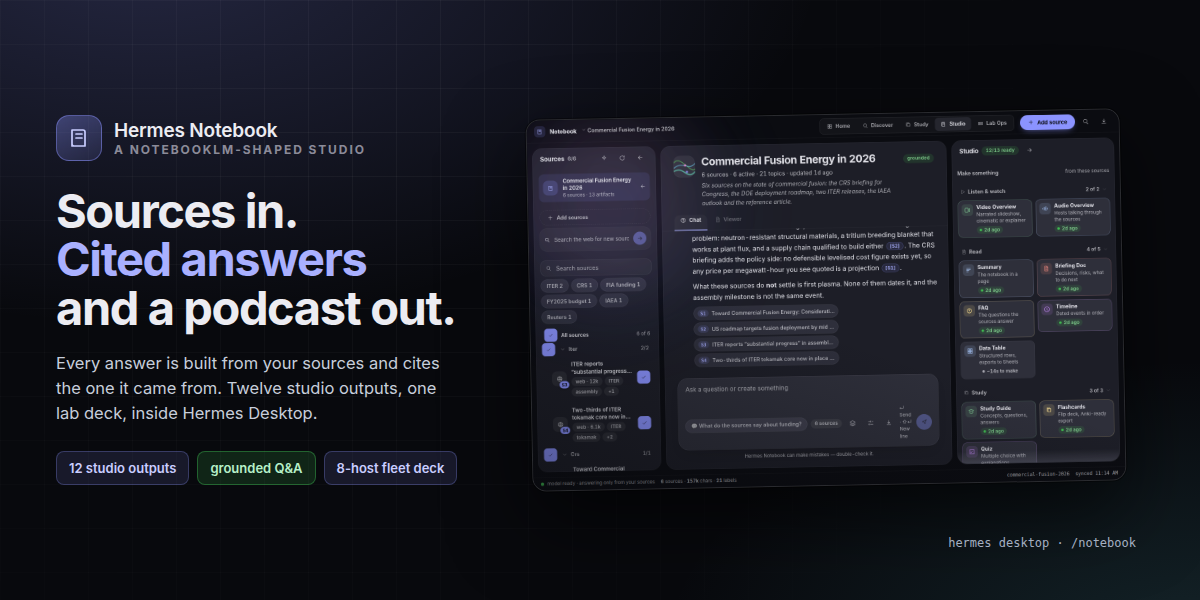
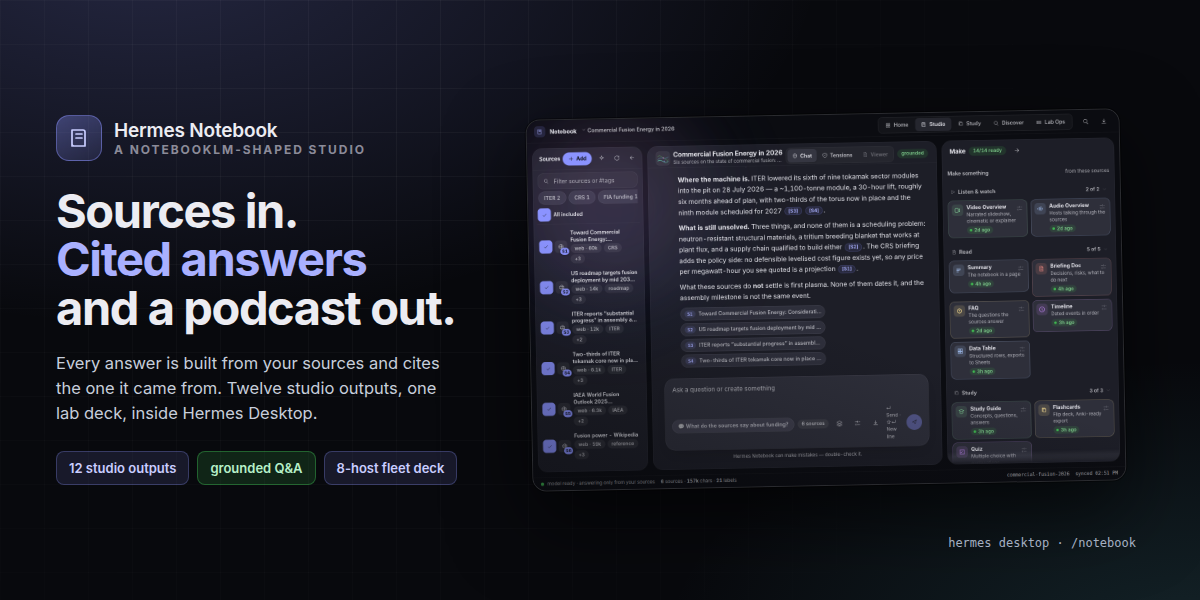
ui: the make bench ends in a fade instead of a sliced card, and the docs are reshot
The last card in the Make panel was sliced by the panel's bottom edge, which
reads as a rendering fault rather than "scroll for more". The body now carries a
24px bottom gutter and an 18px mask fade: while the list continues the fade says
there is more below, and because the gutter is deeper than the fade it is gone by
the time you reach the end, so the last card is never dimmed.

All six documentation screenshots and the banner are reshot from the current
build (tests/shots-docs.mjs scans every capture for NaN/undefined and fails on a
console error). The catalog draft is bumped to 1.6.1.

diff --git a/desktop/plugin.js b/desktop/plugin.js
@@ -535,7 +535,16 @@ const CSS = `
 .nb-studio-head{gap:var(--nb-sp-3)}
 .nb-studio-body{flex:1;min-height:0;display:flex;flex-direction:column;gap:var(--nb-sp-4);
   overflow:auto;overscroll-behavior:contain;
-  padding:var(--nb-sp-4) var(--nb-sp-4) 0;
+  /* The last card used to end flush against the status bar: a cut card at the
+     panel edge reads as a rendering fault, not as "scroll for more". A real
+     bottom gutter gives the bench a visible end. */
+  padding:var(--nb-sp-4) var(--nb-sp-4) var(--nb-sp-6);
+  /* A card sliced by the panel's bottom edge reads as a rendering fault. The
+     fade says "there is more below" while the panel is scrolled, and because
+     the bottom gutter is deeper than the fade, it disappears at the end of the
+     list instead of dimming the last card. */
+  -webkit-mask-image:linear-gradient(to bottom,#000 calc(100% - 18px),transparent);
+  mask-image:linear-gradient(to bottom,#000 calc(100% - 18px),transparent);
   scrollbar-width:thin;
   scrollbar-color:color-mix(in srgb,${T.text} 22%,transparent) transparent}
 .nb-studio-sec{display:flex;flex-direction:column;gap:var(--nb-sp-2)}

diff --git a/src/00-head.js b/src/00-head.js
@@ -535,7 +535,16 @@ const CSS = `
 .nb-studio-head{gap:var(--nb-sp-3)}
 .nb-studio-body{flex:1;min-height:0;display:flex;flex-direction:column;gap:var(--nb-sp-4);
   overflow:auto;overscroll-behavior:contain;
-  padding:var(--nb-sp-4) var(--nb-sp-4) 0;
+  /* The last card used to end flush against the status bar: a cut card at the
+     panel edge reads as a rendering fault, not as "scroll for more". A real
+     bottom gutter gives the bench a visible end. */
+  padding:var(--nb-sp-4) var(--nb-sp-4) var(--nb-sp-6);
+  /* A card sliced by the panel's bottom edge reads as a rendering fault. The
+     fade says "there is more below" while the panel is scrolled, and because
+     the bottom gutter is deeper than the fade, it disappears at the end of the
+     list instead of dimming the last card. */
+  -webkit-mask-image:linear-gradient(to bottom,#000 calc(100% - 18px),transparent);
+  mask-image:linear-gradient(to bottom,#000 calc(100% - 18px),transparent);
   scrollbar-width:thin;
   scrollbar-color:color-mix(in srgb,${T.text} 22%,transparent) transparent}
 .nb-studio-sec{display:flex;flex-direction:column;gap:var(--nb-sp-2)}

diff --git a/web/plugin.js b/web/plugin.js
@@ -535,7 +535,16 @@ const CSS = `
 .nb-studio-head{gap:var(--nb-sp-3)}
 .nb-studio-body{flex:1;min-height:0;display:flex;flex-direction:column;gap:var(--nb-sp-4);
   overflow:auto;overscroll-behavior:contain;
-  padding:var(--nb-sp-4) var(--nb-sp-4) 0;
+  /* The last card used to end flush against the status bar: a cut card at the
+     panel edge reads as a rendering fault, not as "scroll for more". A real
+     bottom gutter gives the bench a visible end. */
+  padding:var(--nb-sp-4) var(--nb-sp-4) var(--nb-sp-6);
+  /* A card sliced by the panel's bottom edge reads as a rendering fault. The
+     fade says "there is more below" while the panel is scrolled, and because
+     the bottom gutter is deeper than the fade, it disappears at the end of the
+     list instead of dimming the last card. */
+  -webkit-mask-image:linear-gradient(to bottom,#000 calc(100% - 18px),transparent);
+  mask-image:linear-gradient(to bottom,#000 calc(100% - 18px),transparent);
   scrollbar-width:thin;
   scrollbar-color:color-mix(in srgb,${T.text} 22%,transparent) transparent}
 .nb-studio-sec{display:flex;flex-direction:column;gap:var(--nb-sp-2)}
